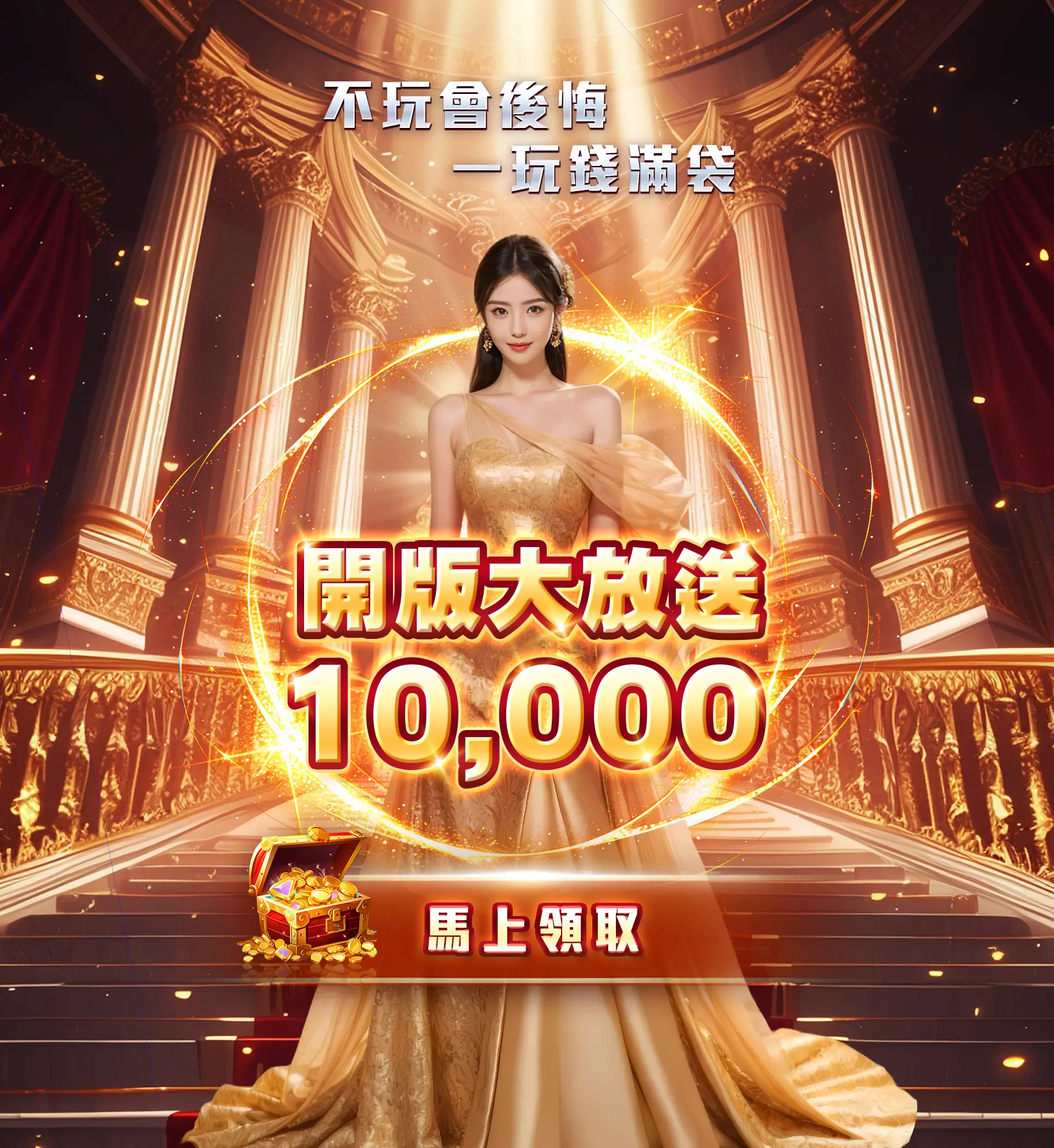
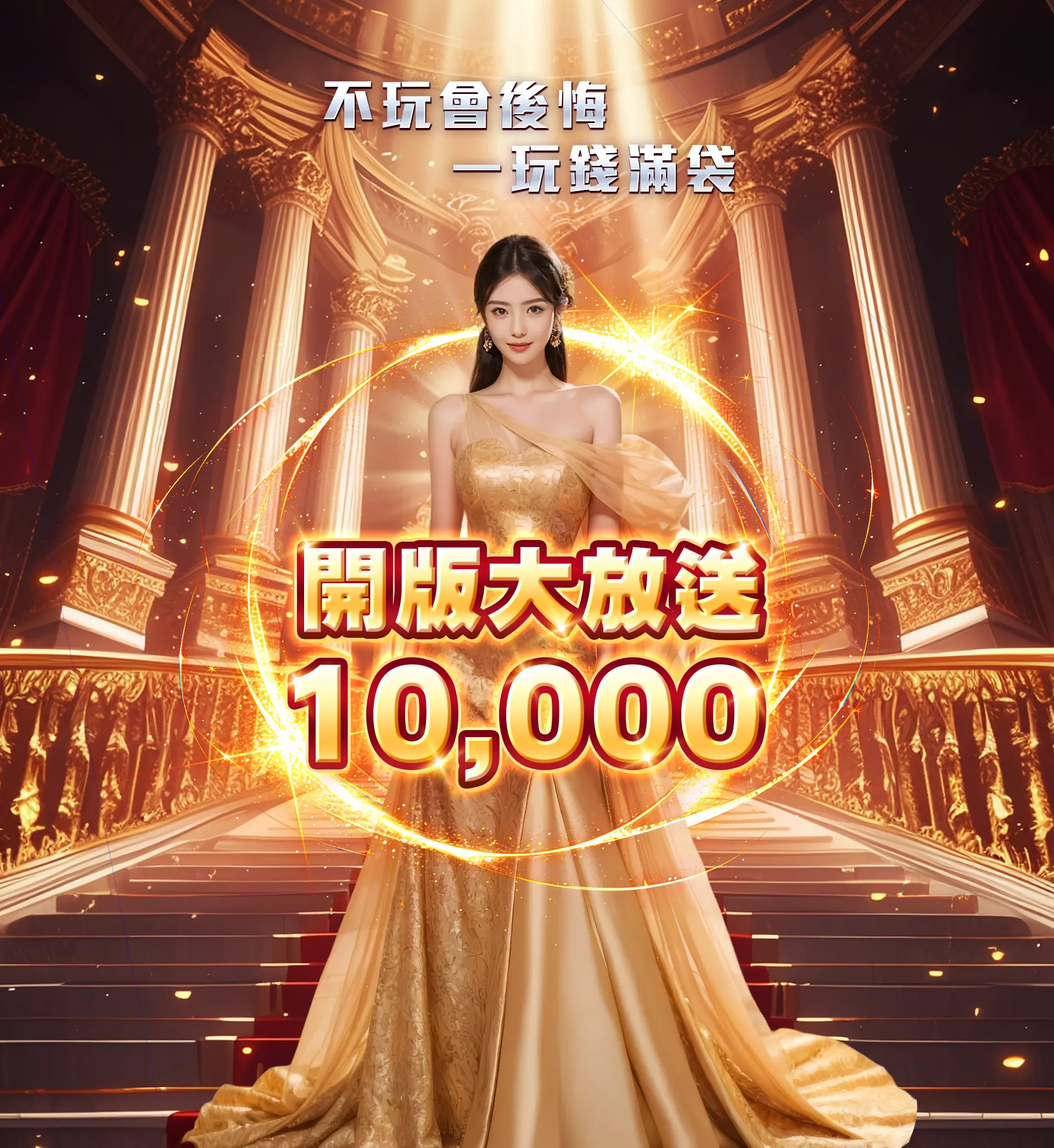
feat: 替换点击区域为按钮图片并优化样式
将点击区域 div 替换为 btn.webp 图片按钮，调整按钮在不同屏幕尺寸下的显示效果

Changed region(s): [[0.2188, 0.7153, 0.7812, 0.9019]]

diff --git a/index.html b/index.html
@@ -69,12 +69,16 @@
             z-index: 2;
         }
         
-        .clickable-area {
+        .btn-img {
             position: absolute;
-            bottom: 0;
-            left: 0;
-            width: 100%;
-            height: 50%;
+            bottom: 15%;
+            left: 50%;
+            transform: translateX(-50%);
+            width: auto;
+            height: auto;
+            max-width: 500px;
+            max-height: 30%;
+            object-fit: contain;
             cursor: pointer;
             z-index: 10;
         }
@@ -84,11 +88,21 @@
             .fullscreen-img {
                 object-position: center center;
             }
+            .btn-img {
+                bottom: calc(54vh - 50vw);
+                max-width: 60%;
+                max-height: 25%;
+            }
         }
         
         @media screen and (orientation: landscape) and (max-height: 500px) {
             .fullscreen-img {
                 object-position: center;
+            }
+            .btn-img {
+                bottom: 5%;
+                max-width: 70%;
+                max-height: 20%;
             }
         }
     </style>
@@ -96,7 +110,7 @@
 <body>
     <div class="container">
         <img src="image.webp" alt="全民大跳槽 51888" class="fullscreen-img">
-        <div class="clickable-area" onclick="fbq('track', 'Lead'); window.open('https://lin.ee/WMCRNp6', '_blank')"></div>
+        <img src="btn.webp" alt="立即領取51888" class="btn-img" onclick="fbq('track', 'Lead'); window.open('https://lin.ee/WMCRNp6', '_blank')">
     </div>
 </body>
 </html>
